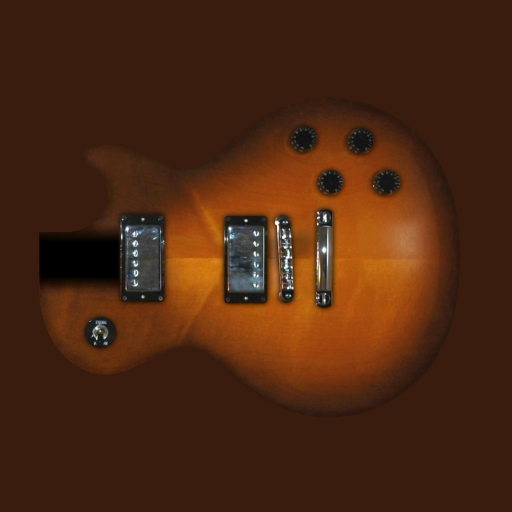
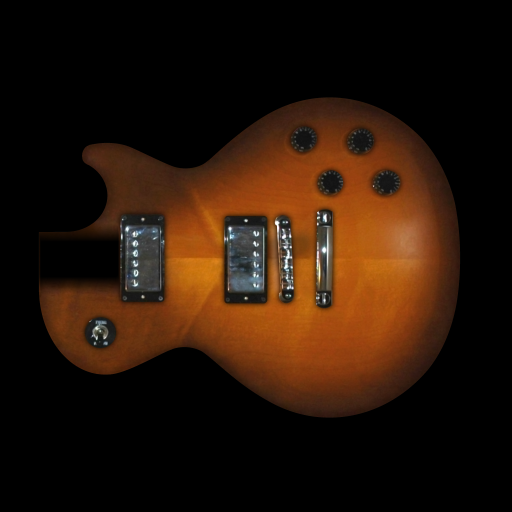
vastly sped up shaders
git-svn-id: https://guitarstorm.googlecode.com/svn/trunk@281 9eb3be25-a147-0410-a550-09e9c04672db

diff --git a/GLSLMain.cpp b/GLSLMain.cpp
@@ -21,6 +21,8 @@
 
 #include "Texture.h"
 
+bool useShaders = true;
+
 GLint v, f, p; 
 FT_Library ft;
 FT_Face font;
@@ -33,6 +35,8 @@ float xpad[128];
 float ypad[128];
 int point = 200;
 Texture* body;
+
+float rotation = 0;
 
 using namespace std;
 
@@ -72,13 +76,14 @@ void drawText(string str, float r=1, float g=1, float b=1)
 	const char* cstr = str.c_str();
 	int count = str.length();
 	
+	GLint loc = glGetUniformLocation(p,"edgeSize");
+	glUniform1f(loc, 0.5);
+	loc = glGetUniformLocation(p,"alphaOnly");
+	glUniform1i(loc, 1);
+	
 	for(int i=0; i<count; i++)
 	{
 		glBindTexture(GL_TEXTURE_2D, text[cstr[i]]);
-		GLint loc = glGetUniformLocation(p,"edgeSize");
-		glUniform1f(loc, 4.0);
-		loc = glGetUniformLocation(p,"alphaOnly");
-		glUniform1i(loc, 1);
 		
 		glBegin(GL_TRIANGLE_STRIP);
 		
@@ -106,7 +111,7 @@ void drawText(string str, float r=1, float g=1, float b=1)
 }
 
 void renderScene() 
-{
+{	
 	glClear(GL_COLOR_BUFFER_BIT);
 	
 	glLoadIdentity();
@@ -134,10 +139,11 @@ void renderScene()
 		GLint loc = glGetUniformLocation(p,"shadowAlpha");
 		glUniform1f(loc, 0.5);
 		loc = glGetUniformLocation(p,"shadowPosition");
-		glUniform3f(loc, 0.01, -0.001, 1);
+		glUniform3f(loc, 1, -0.1, 1);
 		
 		glTranslatef(10, 0, 0);
 		glScalef(30, 30, 1);
+		glRotatef(rotation, 0, 0, 1);
 		drawQuad(1, 1, 1);
 	}
 	glPopMatrix();
@@ -153,7 +159,9 @@ void renderScene()
 	}
 	glPopMatrix();
 	
-	glFlush();
+	glutSwapBuffers();
+	
+	rotation += 0.1f;
 }
 
 GLint makeVectorTexture(unsigned char* buffer, int bWidth, int bHeight, int vWidth, int vHeight)
@@ -340,7 +348,6 @@ void loadShaders()
 	glAttachShader(p,f);
 	
 	glLinkProgram(p);
-	glUseProgram(p);
 	
 	glMatrixMode(GL_PROJECTION);
 	glLoadIdentity();
@@ -351,7 +358,17 @@ void loadShaders()
 	glHint(GL_PERSPECTIVE_CORRECTION_HINT, GL_NICEST);	
 	
 	glEnable(GL_TEXTURE_2D);
-	glEnable (GL_BLEND);
+	
+	if(!useShaders)
+	{
+		glAlphaFunc(GL_GREATER,0.5f);
+		glEnable(GL_ALPHA_TEST);
+	}
+	else
+	{
+		glEnable (GL_BLEND);
+		glUseProgram(p);
+	}
 }
 
 void unloadFont()
@@ -402,6 +419,7 @@ int main(int argc, char **argv)
 	unloadFont();
 
 	glutDisplayFunc(renderScene);
+	glutIdleFunc(renderScene);
 	glutMainLoop();
 	
 	unloadShaders();

diff --git a/Texture.cpp b/Texture.cpp
@@ -138,7 +138,7 @@ Texture::Texture(string name)
 						 iData);
 		}
 
-		edge = mWidth / 32.0f;
+		edge = 0.025f;
 	}
 }
 
